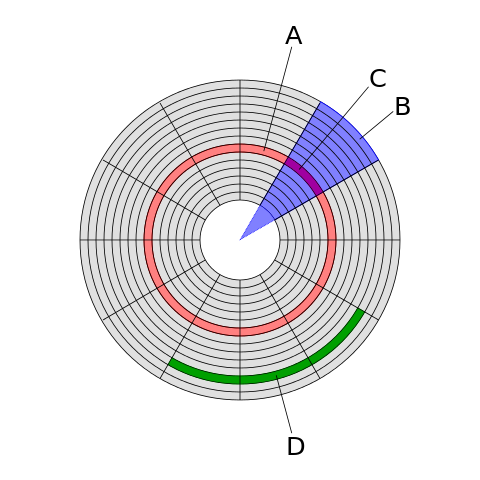
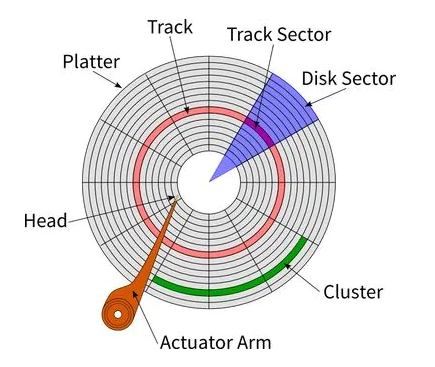
modification image floppy structure

Changed region(s): [[0.0598, 0.03, 0.9264, 0.9591], [0.7172, 0.7793, 0.8966, 0.8392]]

diff --git a/_posts/articles/6809-thomson-to8-bootsector/2022-11-07-6809-thomson-to8-bootsector.md b/_posts/articles/6809-thomson-to8-bootsector/2022-11-07-6809-thomson-to8-bootsector.md
@@ -110,6 +110,11 @@ Petit rappel sur les disquettes :
 
 ![FloppyDisk](/images/6809-thomson-to8-bootsector/floppy-disk-structure.png)
 
+Légende :
+
+A. Piste (Track)
+B. 
+
 En ce qui concerne la structure des disquettes doubles faces, double densité, qui équipent le TO8 :
 - les faces sont numérotées de 0 à 1, 
 - les pistes de 0 à 79, 
